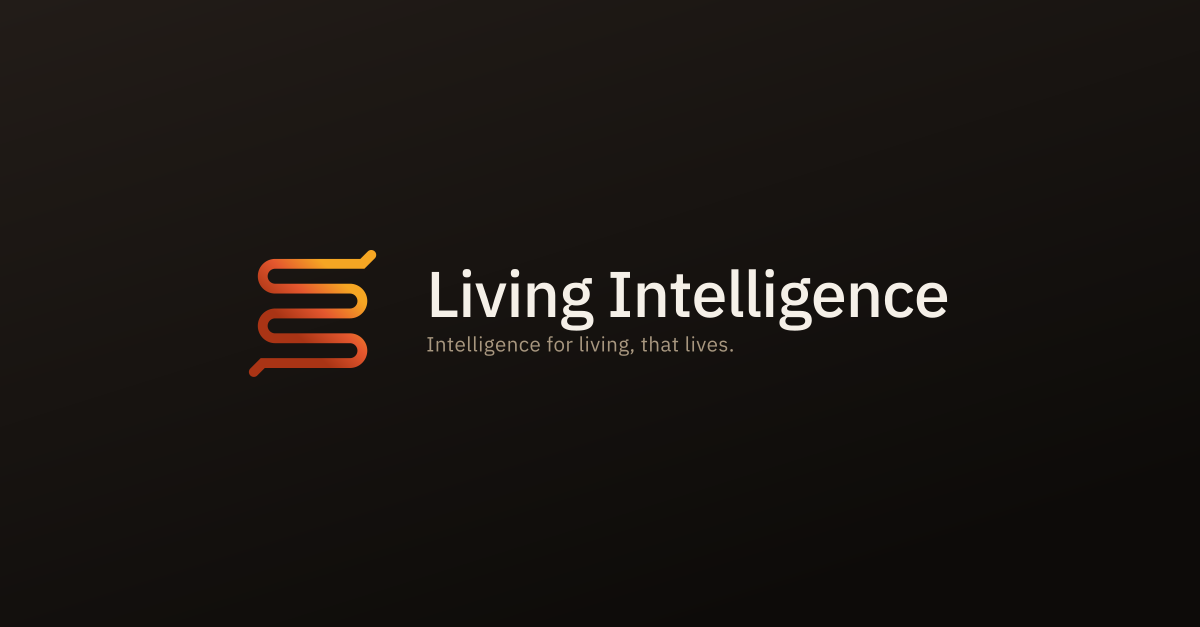
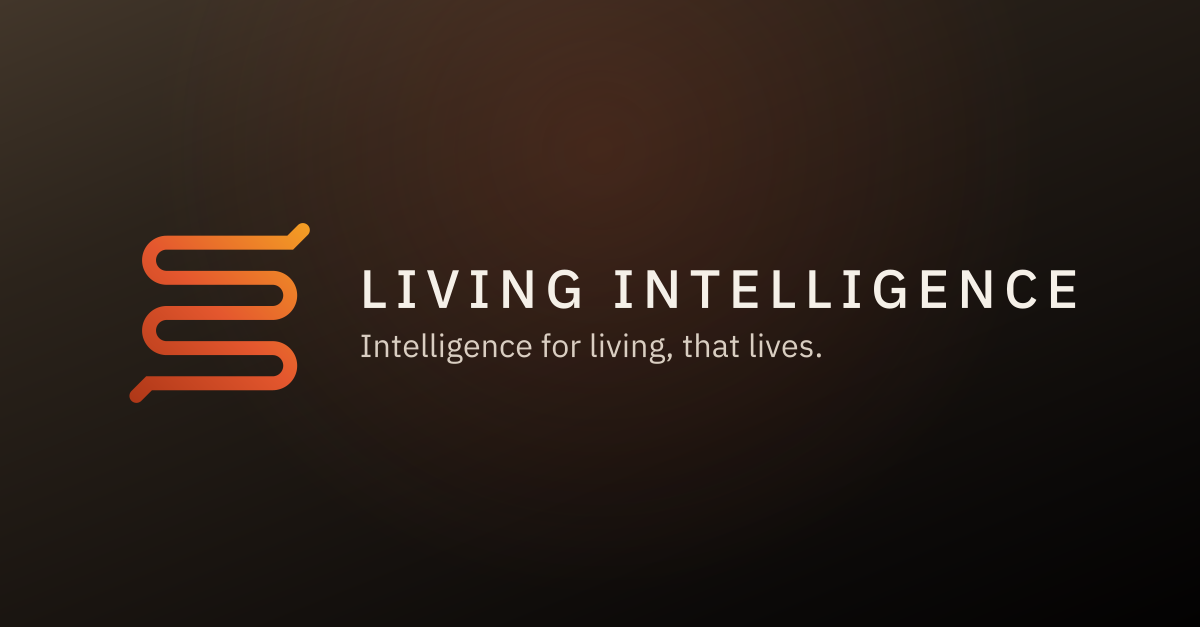
Enhance site metadata, branding, and deployment asset coverage

Changed region(s): [[0.0, 0.0, 0.8942, 0.6364]]

diff --git a/www/index.html b/www/index.html
@@ -1,38 +1,157 @@
 <!doctype html>
-<html lang="en">
+<html lang="en-US" prefix="og: https://ogp.me/ns#">
 <head>
 <meta charset="utf-8" />
 <meta name="viewport" content="width=device-width,initial-scale=1" />
-<title>Living Intelligence — Intelligence for living, that lives.</title>
-<meta name="description" content="Living Intelligence is an independent technology company in San Francisco, building intelligence that understands context and respects human agency." />
+<title>Living Intelligence — Technology Studio in San Francisco</title>
+<meta name="description" content="Intelligence you can trust carries the ordinary things, leaving you free for the choices only you can make. An independent technology studio in San Francisco." />
 <link rel="canonical" href="https://livingintelligence.xyz/" />
+<link rel="author" href="https://alexfili.pe/" />
+<meta name="robots" content="index,follow,max-image-preview:large,max-snippet:-1,max-video-preview:-1" />
+<meta name="theme-color" content="#0D0B09" />
 <meta name="color-scheme" content="dark" />
 <meta name="application-name" content="Living Intelligence" />
+<meta name="mobile-web-app-capable" content="yes" />
+<meta name="apple-mobile-web-app-capable" content="yes" />
 <meta name="apple-mobile-web-app-title" content="Living Intelligence" />
-<meta name="robots" content="index,follow" />
+<meta name="apple-mobile-web-app-status-bar-style" content="black" />
+<meta name="msapplication-TileColor" content="#0D0B09" />
 
 <meta property="og:type" content="website" />
 <meta property="og:locale" content="en_US" />
 <meta property="og:url" content="https://livingintelligence.xyz/" />
 <meta property="og:site_name" content="Living Intelligence" />
-<meta property="og:title" content="Living Intelligence" />
-<meta property="og:description" content="Intelligence for living, that lives." />
-<meta property="og:image" content="https://livingintelligence.xyz/assets/og-1200x627.png" />
+<meta property="og:title" content="Living Intelligence — Intelligence for living, that lives." />
+<meta property="og:description" content="Intelligence you can trust carries the ordinary things, leaving you free for the choices only you can make. An independent technology studio in San Francisco." />
+<meta property="og:image" content="https://livingintelligence.xyz/assets/og-1200x627.png?v=20260815" />
+<meta property="og:image:secure_url" content="https://livingintelligence.xyz/assets/og-1200x627.png?v=20260815" />
 <meta property="og:image:type" content="image/png" />
 <meta property="og:image:width" content="1200" />
 <meta property="og:image:height" content="627" />
-<meta property="og:image:alt" content="Living Intelligence — Intelligence for living, that lives." />
+<meta property="og:image:alt" content="Living Intelligence logo and the words “Intelligence for living, that lives.” on a warm dark background." />
 <meta name="twitter:card" content="summary_large_image" />
-<meta name="twitter:title" content="Living Intelligence" />
-<meta name="twitter:description" content="Intelligence for living, that lives." />
-<meta name="twitter:image" content="https://livingintelligence.xyz/assets/og-1200x627.png" />
-<meta name="twitter:image:alt" content="Living Intelligence — Intelligence for living, that lives." />
+<meta name="twitter:title" content="Living Intelligence — Intelligence for living, that lives." />
+<meta name="twitter:description" content="Intelligence you can trust carries the ordinary things, leaving you free for the choices only you can make. An independent technology studio in San Francisco." />
+<meta name="twitter:image" content="https://livingintelligence.xyz/assets/og-1200x627.png?v=20260815" />
+<meta name="twitter:image:alt" content="Living Intelligence logo and the words “Intelligence for living, that lives.” on a warm dark background." />
 
-<link rel="icon" href="/assets/li-icon.svg" type="image/svg+xml" />
-<link rel="icon" href="/assets/li-icon-32.png" sizes="32x32" />
-<link rel="icon" href="/assets/li-icon-16.png" sizes="16x16" />
-<link rel="apple-touch-icon" href="/assets/li-icon-180.png" sizes="180x180" />
+<link rel="icon" href="/favicon.ico" sizes="any" type="image/x-icon" />
+<link rel="shortcut icon" href="/favicon.ico" />
+<link rel="icon" href="/assets/li-icon.svg" sizes="any" type="image/svg+xml" />
+<link rel="icon" href="/assets/li-icon-32.png" sizes="32x32" type="image/png" />
+<link rel="icon" href="/assets/li-icon-16.png" sizes="16x16" type="image/png" />
+<link rel="apple-touch-icon" href="/apple-touch-icon.png" sizes="180x180" />
+<link rel="mask-icon" href="/assets/safari-pinned-tab.svg" color="#E4572E" />
 <link rel="manifest" href="/site.webmanifest" />
+
+<script type="application/ld+json">
+{
+  "@context": "https://schema.org",
+  "@graph": [
+    {
+      "@type": "WebSite",
+      "@id": "https://livingintelligence.xyz/#website",
+      "url": "https://livingintelligence.xyz/",
+      "name": "Living Intelligence",
+      "alternateName": "livingintelligence.xyz",
+      "description": "Intelligence you can trust carries the ordinary things, leaving you free for the choices only you can make. An independent technology studio in San Francisco.",
+      "publisher": { "@id": "https://livingintelligence.xyz/#organization" },
+      "inLanguage": "en-US"
+    },
+    {
+      "@type": "Organization",
+      "@id": "https://livingintelligence.xyz/#organization",
+      "name": "Living Intelligence",
+      "url": "https://livingintelligence.xyz/",
+      "description": "Living Intelligence is an independent technology studio in San Francisco exploring how intelligence can improve the way people live, work, create, and interact with their environments.",
+      "slogan": "Intelligence for living, that lives.",
+      "logo": { "@id": "https://livingintelligence.xyz/#logo" },
+      "founder": { "@id": "https://alexfili.pe/#person" },
+      "address": {
+        "@type": "PostalAddress",
+        "addressLocality": "San Francisco",
+        "addressRegion": "CA",
+        "addressCountry": "US"
+      },
+      "email": "hello@livingintelligence.xyz",
+      "contactPoint": {
+        "@type": "ContactPoint",
+        "email": "hello@livingintelligence.xyz",
+        "contactType": "general inquiries"
+      },
+      "sameAs": ["https://github.com/livingintelligence-xyz"]
+    },
+    {
+      "@type": "Person",
+      "@id": "https://alexfili.pe/#person",
+      "name": "Álex Filipe Santos",
+      "givenName": "Álex Filipe",
+      "familyName": "Santos",
+      "url": "https://alexfili.pe/",
+      "jobTitle": ["AI Engineer", "Software Engineer", "Classical Musician"],
+      "sameAs": [
+        "https://linkedin.com/in/alexfilipe",
+        "https://github.com/alexfilipe"
+      ]
+    },
+    {
+      "@type": "ImageObject",
+      "@id": "https://livingintelligence.xyz/#logo",
+      "url": "https://livingintelligence.xyz/assets/living-intelligence-logo.png",
+      "contentUrl": "https://livingintelligence.xyz/assets/living-intelligence-logo.png",
+      "encodingFormat": "image/png",
+      "width": 800,
+      "height": 798,
+      "caption": "Living Intelligence logo"
+    },
+    {
+      "@type": "ImageObject",
+      "@id": "https://livingintelligence.xyz/#primaryimage",
+      "url": "https://livingintelligence.xyz/assets/og-1200x627.png?v=20260815",
+      "contentUrl": "https://livingintelligence.xyz/assets/og-1200x627.png?v=20260815",
+      "encodingFormat": "image/png",
+      "width": 1200,
+      "height": 627,
+      "caption": "Living Intelligence — Intelligence for living, that lives.",
+      "representativeOfPage": true
+    },
+    {
+      "@type": "WebPage",
+      "@id": "https://livingintelligence.xyz/#webpage",
+      "url": "https://livingintelligence.xyz/",
+      "name": "Living Intelligence — Technology Studio in San Francisco",
+      "description": "Intelligence you can trust carries the ordinary things, leaving you free for the choices only you can make. An independent technology studio in San Francisco.",
+      "isPartOf": { "@id": "https://livingintelligence.xyz/#website" },
+      "mainEntity": { "@id": "https://livingintelligence.xyz/#organization" },
+      "about": { "@id": "https://livingintelligence.xyz/#organization" },
+      "creator": { "@id": "https://alexfili.pe/#person" },
+      "publisher": { "@id": "https://livingintelligence.xyz/#organization" },
+      "primaryImageOfPage": { "@id": "https://livingintelligence.xyz/#primaryimage" },
+      "mentions": [
+        { "@id": "https://aetherloom.app/#app" },
+        { "@id": "https://alexfili.pe/projects/home-intelligence#project" }
+      ],
+      "dateModified": "2026-08-15",
+      "inLanguage": "en-US"
+    },
+    {
+      "@type": "SoftwareApplication",
+      "@id": "https://aetherloom.app/#app",
+      "name": "Aetherloom",
+      "url": "https://aetherloom.app/",
+      "creator": { "@id": "https://alexfili.pe/#person" },
+      "sameAs": ["https://github.com/alexfilipe/aetherloom"]
+    },
+    {
+      "@type": "CreativeWork",
+      "@id": "https://alexfili.pe/projects/home-intelligence#project",
+      "name": "Home Intelligence",
+      "url": "https://alexfili.pe/projects/home-intelligence",
+      "creator": { "@id": "https://alexfili.pe/#person" }
+    }
+  ]
+}
+</script>
 
 <link rel="preconnect" href="https://fonts.googleapis.com" />
 <link rel="preconnect" href="https://fonts.gstatic.com" crossorigin />
@@ -58,7 +177,7 @@
     background:var(--bg);color:var(--fg);font-family:var(--body);
     -webkit-font-smoothing:antialiased; text-rendering:optimizeLegibility;
   }
-  .page{position:relative;min-height:100vh;min-height:100dvh;display:flex;flex-direction:column;overflow:hidden}
+  .page{position:relative;min-height:100vh;min-height:100dvh;display:flex;flex-direction:column;overflow-x:hidden}
   .field,.glow{position:absolute;pointer-events:none}
   .field{inset:0;background:var(--field)}
   .glow{
@@ -74,20 +193,25 @@
   }
   .hero{display:flex;flex-direction:column;gap:clamp(22px,3.4vh,34px)}
   .lockup{display:flex;flex-direction:var(--lk-dir);align-items:center;gap:var(--lk-gap);animation:li-rise 1s cubic-bezier(.2,.7,.2,1) both}
-  .lockup svg{width:var(--mark);height:var(--mark);flex:none;overflow:visible}
+  .mark{position:relative;width:var(--mark);aspect-ratio:351.3/350.3;flex:none}
+  .mark img,.mark svg{position:absolute;inset:0;width:100%;height:100%}
+  .mark img{object-fit:contain}
+  .mark svg{overflow:visible}
   .names{display:flex;flex-direction:column;gap:clamp(6px,.8vh,12px)}
   h1{
     margin:0;font-family:var(--wm);font-weight:500;text-transform:uppercase;
     letter-spacing:.15em;font-size:var(--wm-size);line-height:1.02;color:var(--fg);
   }
   .motto{margin:0;font-size:clamp(20px,2vw,26px);letter-spacing:.005em;color:var(--fg-soft);opacity:.92;line-height:1.3;text-wrap:balance}
-  .thesis{margin-block:clamp(5.5px,.85vh,8.5px);max-width:44ch;font-size:clamp(16px,1.45vw,20px);letter-spacing:.005em;line-height:1.6;color:var(--fg-soft);text-wrap:pretty;animation:li-rise 1s cubic-bezier(.2,.7,.2,1) .18s both}
+  .about{margin-block:clamp(5.5px,.85vh,8.5px);max-width:58ch;font-size:clamp(15px,1.25vw,18px);letter-spacing:.005em;line-height:1.55;color:var(--fg-soft);text-wrap:pretty;animation:li-rise 1s cubic-bezier(.2,.7,.2,1) .18s both}
+  .about p{margin:0}
+  .about p+p{margin-top:.7em}
   .work{animation:li-rise 1s cubic-bezier(.2,.7,.2,1) .32s both}
   .work nav{display:flex;flex-wrap:wrap;align-items:baseline;gap:10px clamp(20px,2.6vw,34px);font-size:clamp(13px,1.15vw,15px)}
   a{color:var(--fg-soft);text-decoration:none}
   a:hover{color:var(--g3)}
   a:focus-visible{outline:2px solid var(--g3);outline-offset:4px;border-radius:2px}
-  .work nav a{font-family:var(--sans);font-weight:500}
+  .work nav a{font-family:var(--body);font-weight:500}
   .work nav a,footer .who a{border-bottom:1px solid var(--line-2);padding-bottom:2px;transition:color .3s,border-color .3s}
   .work nav a:hover,footer .who a:hover{border-color:var(--g3)}
   .work nav a::after{content:"↗";display:inline-block;margin-left:.32em;font-size:.85em;vertical-align:.18em}
@@ -106,7 +230,7 @@
   @media (max-width:640px){
     :root{--lk-dir:column;--lk-gap:22px;--mark:86px;--wm-size:clamp(23px,5.6vw,27px);--wm-track:.13em}
     .lockup{align-items:flex-start}
-    .thesis{margin-block:clamp(11px,1.7vh,17px)}
+    .about{margin-block:clamp(11px,1.7vh,17px)}
     footer{font-size:11px}
     footer::before{left:clamp(24px,6vw,88px);right:clamp(24px,6vw,88px);width:auto;transform:none}
     .who-detail{display:block}
@@ -147,16 +271,12 @@
   <main>
     <div class="hero">
       <div class="lockup">
-        <svg viewBox="-80.6 -49.1 351.3 350.3" role="img" aria-label="Living Intelligence" fill="none">
+        <div class="mark">
+          <img src="/assets/living-intelligence-logo.png" width="800" height="798" alt="Living Intelligence logo" decoding="async" fetchpriority="high" />
+          <svg viewBox="-80.6 -49.1 351.3 350.3" aria-hidden="true" focusable="false" fill="none">
           <defs>
-            <linearGradient id="liHeat" gradientUnits="userSpaceOnUse" x1="-80.6" y1="301.2" x2="270.7" y2="-49.1">
-              <stop offset="0" stop-color="var(--g1)"></stop>
-              <stop offset="0.5" stop-color="var(--g2)"></stop>
-              <stop offset="1" stop-color="var(--g3)"></stop>
-            </linearGradient>
             <path id="liPath" pathLength="1000" d="M -54.13 274.63 L -31.50 252.00 L 190.00 252.00 A 31.5 31.5 0 0 0 190.00 189.00 L 0.00 189.00 A 31.5 31.5 0 0 1 0.00 126.00 L 190.00 126.00 A 31.5 31.5 0 0 0 190.00 63.00 L 0.00 63.00 A 31.5 31.5 0 0 1 0.00 0.00 L 190.00 0.00 L 221.50 0.00 L 244.13 -22.63"></path>
           </defs>
-          <use href="#liPath" stroke="url(#liHeat)" stroke-width="25" stroke-linecap="round"></use>
           <g id="heat" stroke="var(--g3)" stroke-width="25" stroke-linecap="round">
             <use class="heat-layer" href="#liPath" stroke-dasharray="230 2000" stroke-dashoffset="2345" opacity="0" style="--heat-enter:2460;--heat-exit:1085;--heat-opacity:.012"></use>
             <use class="heat-layer" href="#liPath" stroke-dasharray="220 2000" stroke-dashoffset="2330" opacity="0" style="--heat-enter:2445;--heat-exit:1070;--heat-opacity:.015"></use>
@@ -176,18 +296,22 @@
             <use class="heat-layer" href="#liPath" stroke-dasharray="80 2000" stroke-dashoffset="2120" opacity="0" style="--heat-enter:2235;--heat-exit:860;--heat-opacity:.364"></use>
             <use class="heat-layer" href="#liPath" stroke-dasharray="70 2000" stroke-dashoffset="2105" opacity="0" style="--heat-enter:2220;--heat-exit:845;--heat-opacity:.85"></use>
           </g>
-        </svg>
+          </svg>
+        </div>
         <div class="names">
           <h1>Living Intelligence</h1>
           <p class="motto">Intelligence for living, that lives.</p>
         </div>
       </div>
 
-      <p class="thesis">Intelligence you can trust carries the ordinary things, leaving you free for the choices only you can make.</p>
+      <div class="about">
+        <p>Living Intelligence is an independent technology studio in San Francisco exploring how intelligence can improve the way people live, work, create, and interact with their environments.</p>
+        <p>Holding onto every small decision isn’t the same as being in charge of your life. Intelligence you can trust carries the ordinary things, leaving you free for the choices only you can make.</p>
+      </div>
 
       <div class="work">
-        <nav>
-          <a href="https://aetherloom.app" target="_blank" rel="noopener">Aetherloom</a>
+        <nav aria-label="Projects">
+          <a href="https://aetherloom.app/" target="_blank" rel="noopener">Aetherloom</a>
           <a href="https://alexfili.pe/projects/home-intelligence" target="_blank" rel="noopener">Home Intelligence</a>
         </nav>
       </div>
@@ -202,7 +326,7 @@
         <a href="https://www.linkedin.com/company/livingintelligence-xyz" target="_blank" rel="noopener">LinkedIn</a>
       </span>
     </div>
-    <p class="who">An independent technology studio by <span class="who-detail"><a href="https://alexfili.pe" target="_blank" rel="noopener">Álex Filipe Santos</a> in San Francisco</span></p>
+    <p class="who">An independent technology studio by <span class="who-detail"><a href="https://alexfili.pe/" target="_blank" rel="author noopener">Álex Filipe Santos</a> in San Francisco.</span></p>
   </footer>
 </div>
 </body>

diff --git a/docs/cloudflare-pages.md b/docs/cloudflare-pages.md
@@ -142,13 +142,19 @@ It should also fail if any required deployment artifact is missing:
 - `www/robots.txt`
 - `www/site.webmanifest`
 - `www/sitemap.xml`
+- `www/favicon.ico`
+- `www/apple-touch-icon.png`
 - `www/assets/li-icon.svg`
 - `www/assets/li-icon-16.png`
 - `www/assets/li-icon-32.png`
 - `www/assets/li-icon-180.png`
 - `www/assets/li-icon-192.png`
 - `www/assets/li-icon-512.png`
+- `www/assets/li-icon-maskable-192.png`
+- `www/assets/li-icon-maskable-512.png`
+- `www/assets/living-intelligence-logo.png`
 - `www/assets/og-1200x627.png`
+- `www/assets/safari-pinned-tab.svg`
 
 ## Post-deploy verification
 
